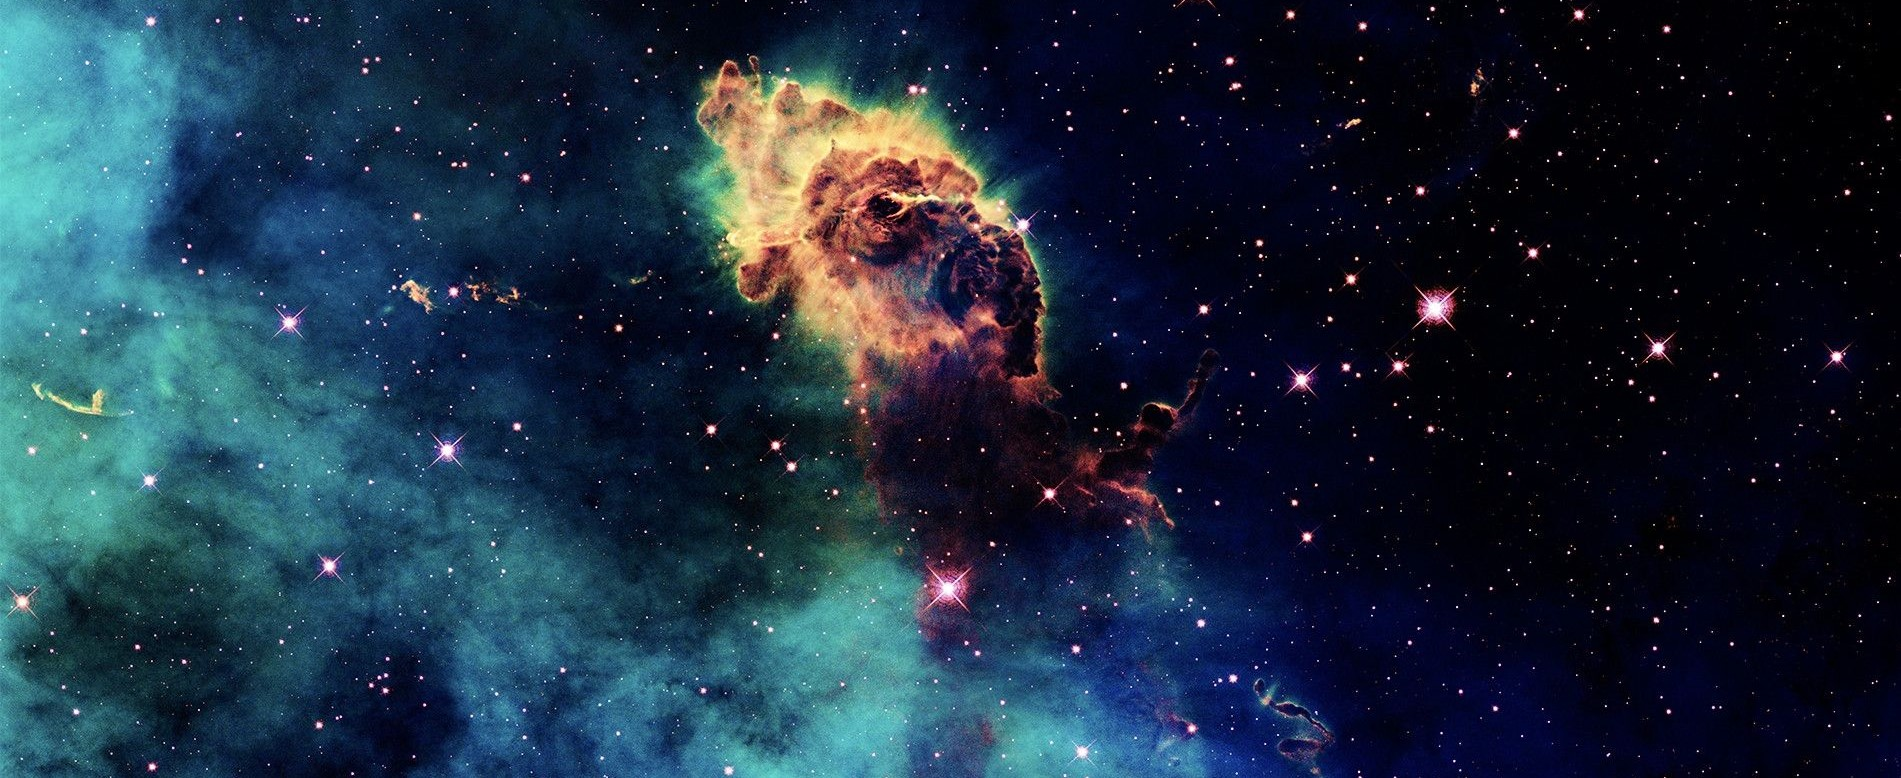
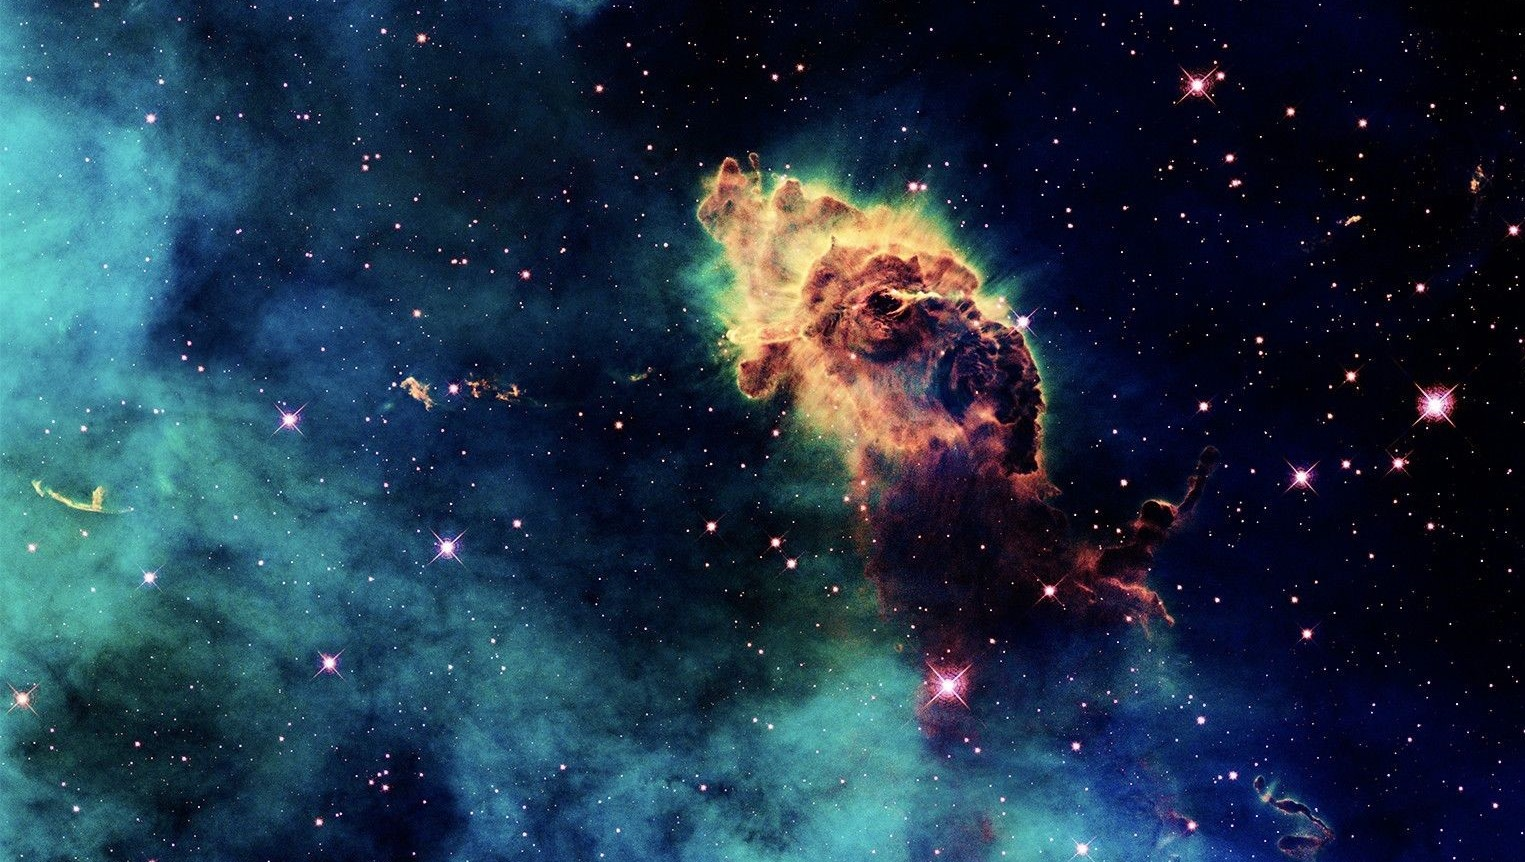
Fixed bug with background on large screens

diff --git a/src/main/resources/templates/home.html b/src/main/resources/templates/home.html
@@ -4,7 +4,7 @@
         <link rel="stylesheet" href="https://stackpath.bootstrapcdn.com/bootstrap/4.4.1/css/bootstrap.min.css" integrity="sha384-Vkoo8x4CGsO3+Hhxv8T/Q5PaXtkKtu6ug5TOeNV6gBiFeWPGFN9MuhOf23Q9Ifjh" crossorigin="anonymous">
         <link rel="stylesheet" type="text/css" th:href="@{/css/common.css}">
     </head>
-    <body th:style="'background:url(' + @{/images/space.jpg} + ');'">
+    <body th:style="'background:url(' + @{/images/space.jpg} + ') no-repeat fixed; background-size: cover;'">
         <div th:replace="common/navbar.html"></div>
         <div class="row">&nbsp;</div>
         <div class="row">&nbsp;</div>

diff --git a/target/classes/templates/home.html b/target/classes/templates/home.html
@@ -4,7 +4,7 @@
         <link rel="stylesheet" href="https://stackpath.bootstrapcdn.com/bootstrap/4.4.1/css/bootstrap.min.css" integrity="sha384-Vkoo8x4CGsO3+Hhxv8T/Q5PaXtkKtu6ug5TOeNV6gBiFeWPGFN9MuhOf23Q9Ifjh" crossorigin="anonymous">
         <link rel="stylesheet" type="text/css" th:href="@{/css/common.css}">
     </head>
-    <body th:style="'background:url(' + @{/images/space.jpg} + ');'">
+    <body th:style="'background:url(' + @{/images/space.jpg} + ') no-repeat fixed; background-size: cover;'">
         <div th:replace="common/navbar.html"></div>
         <div class="row">&nbsp;</div>
         <div class="row">&nbsp;</div>
